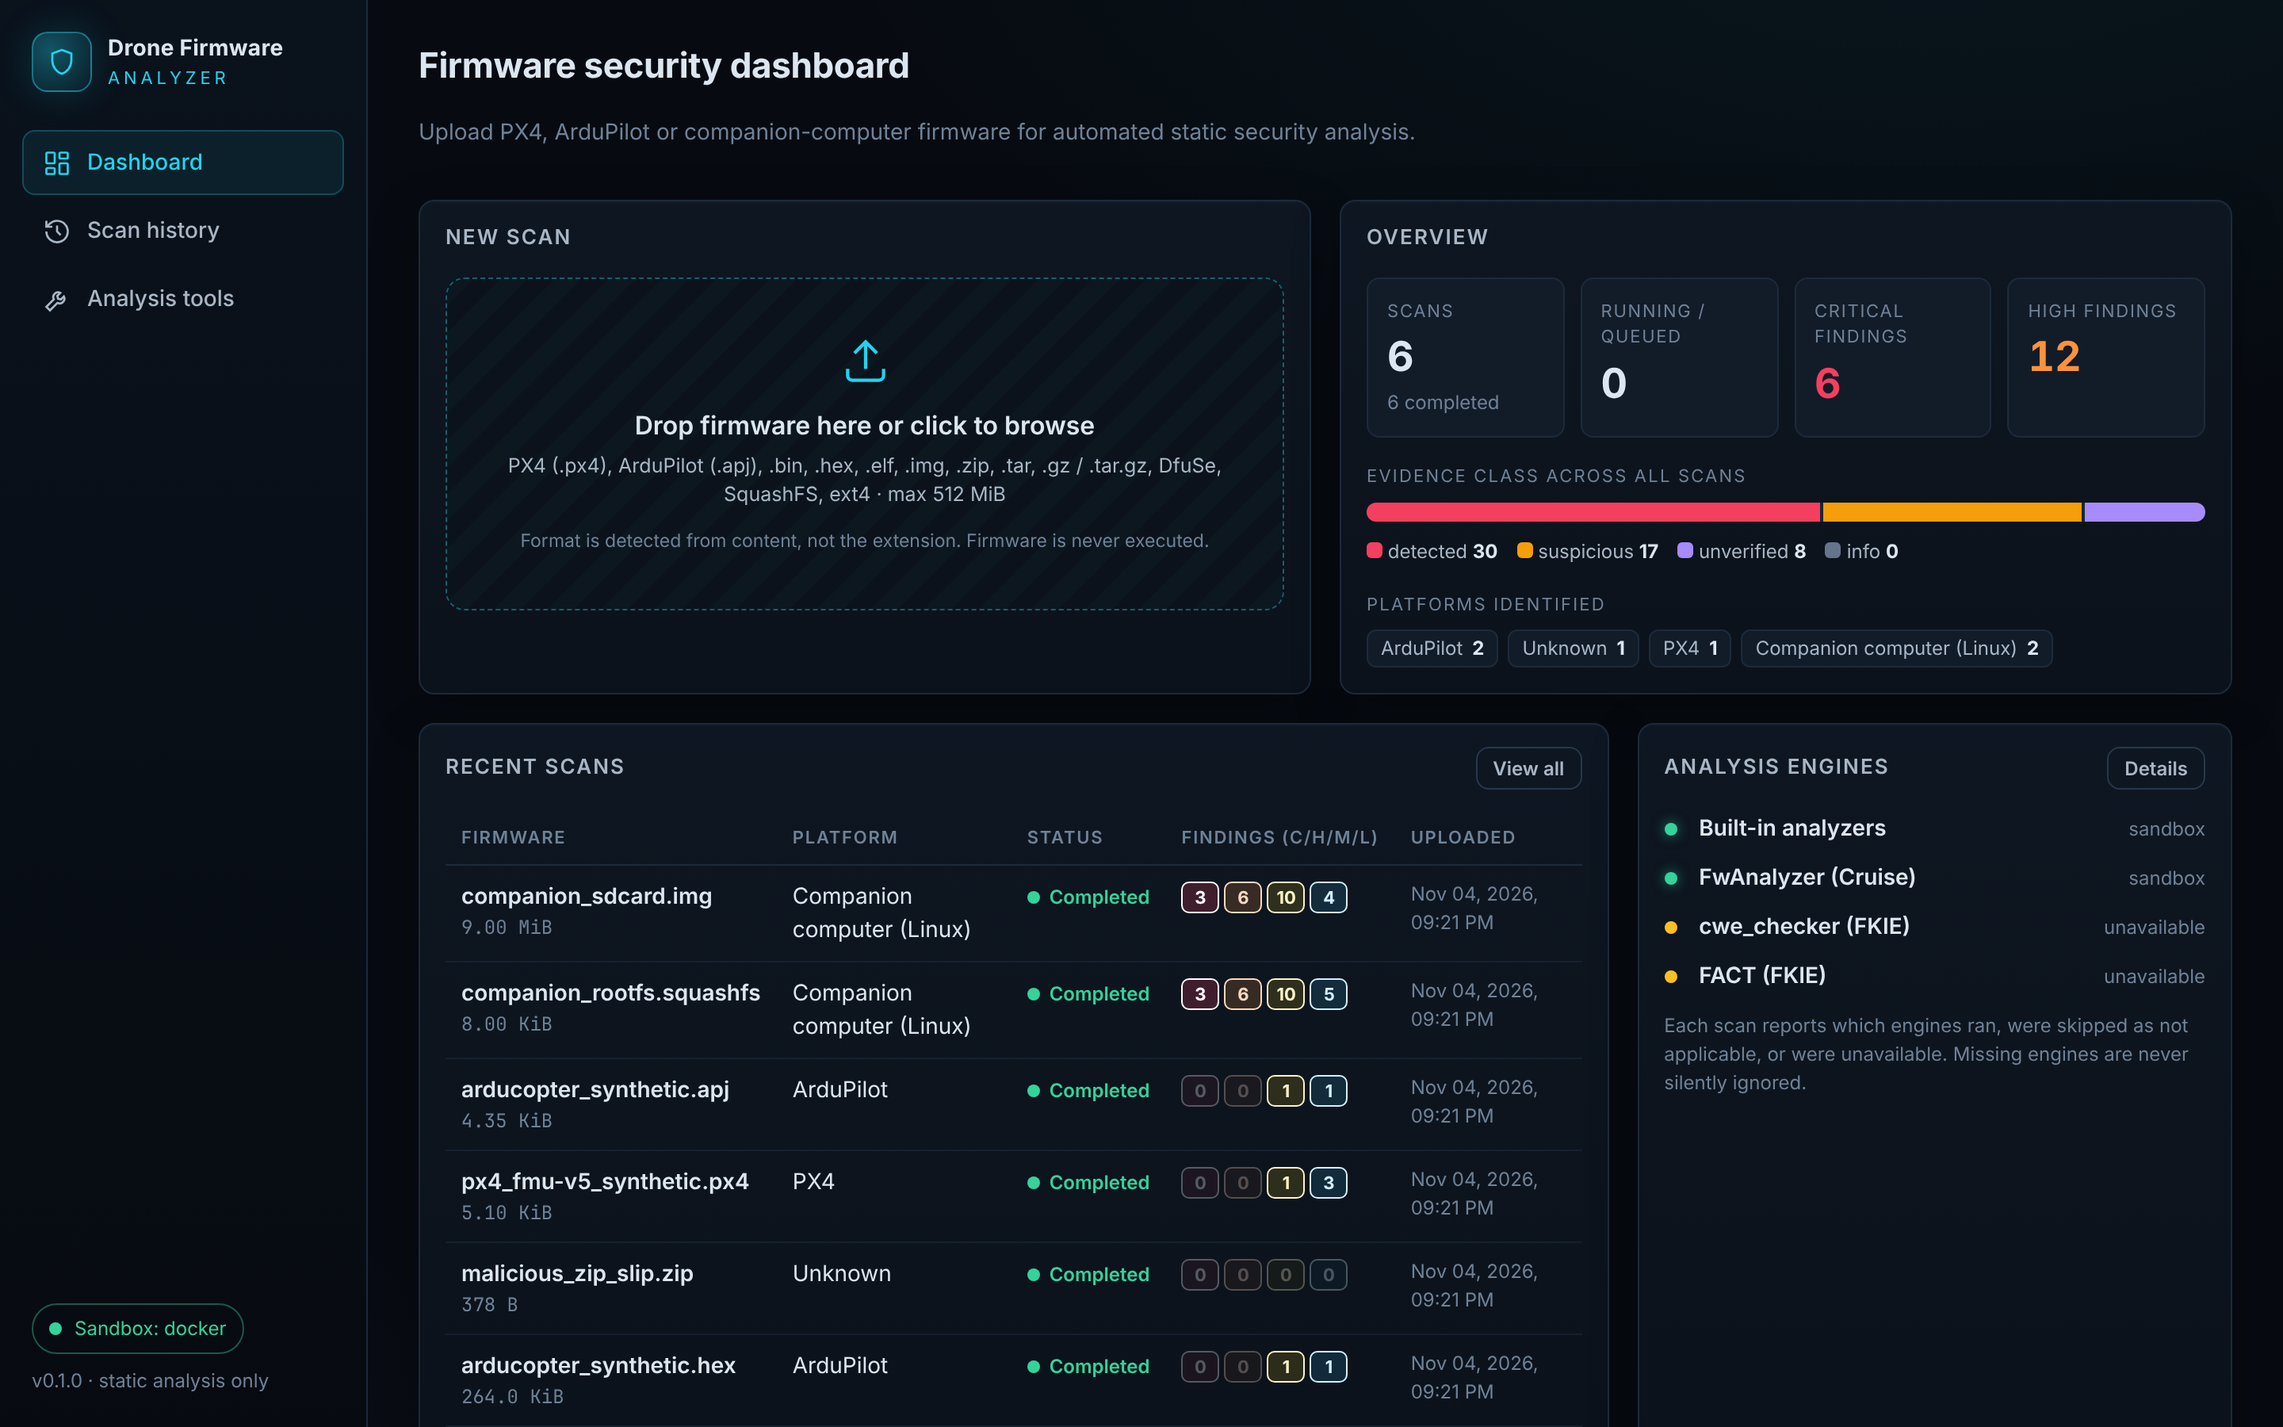
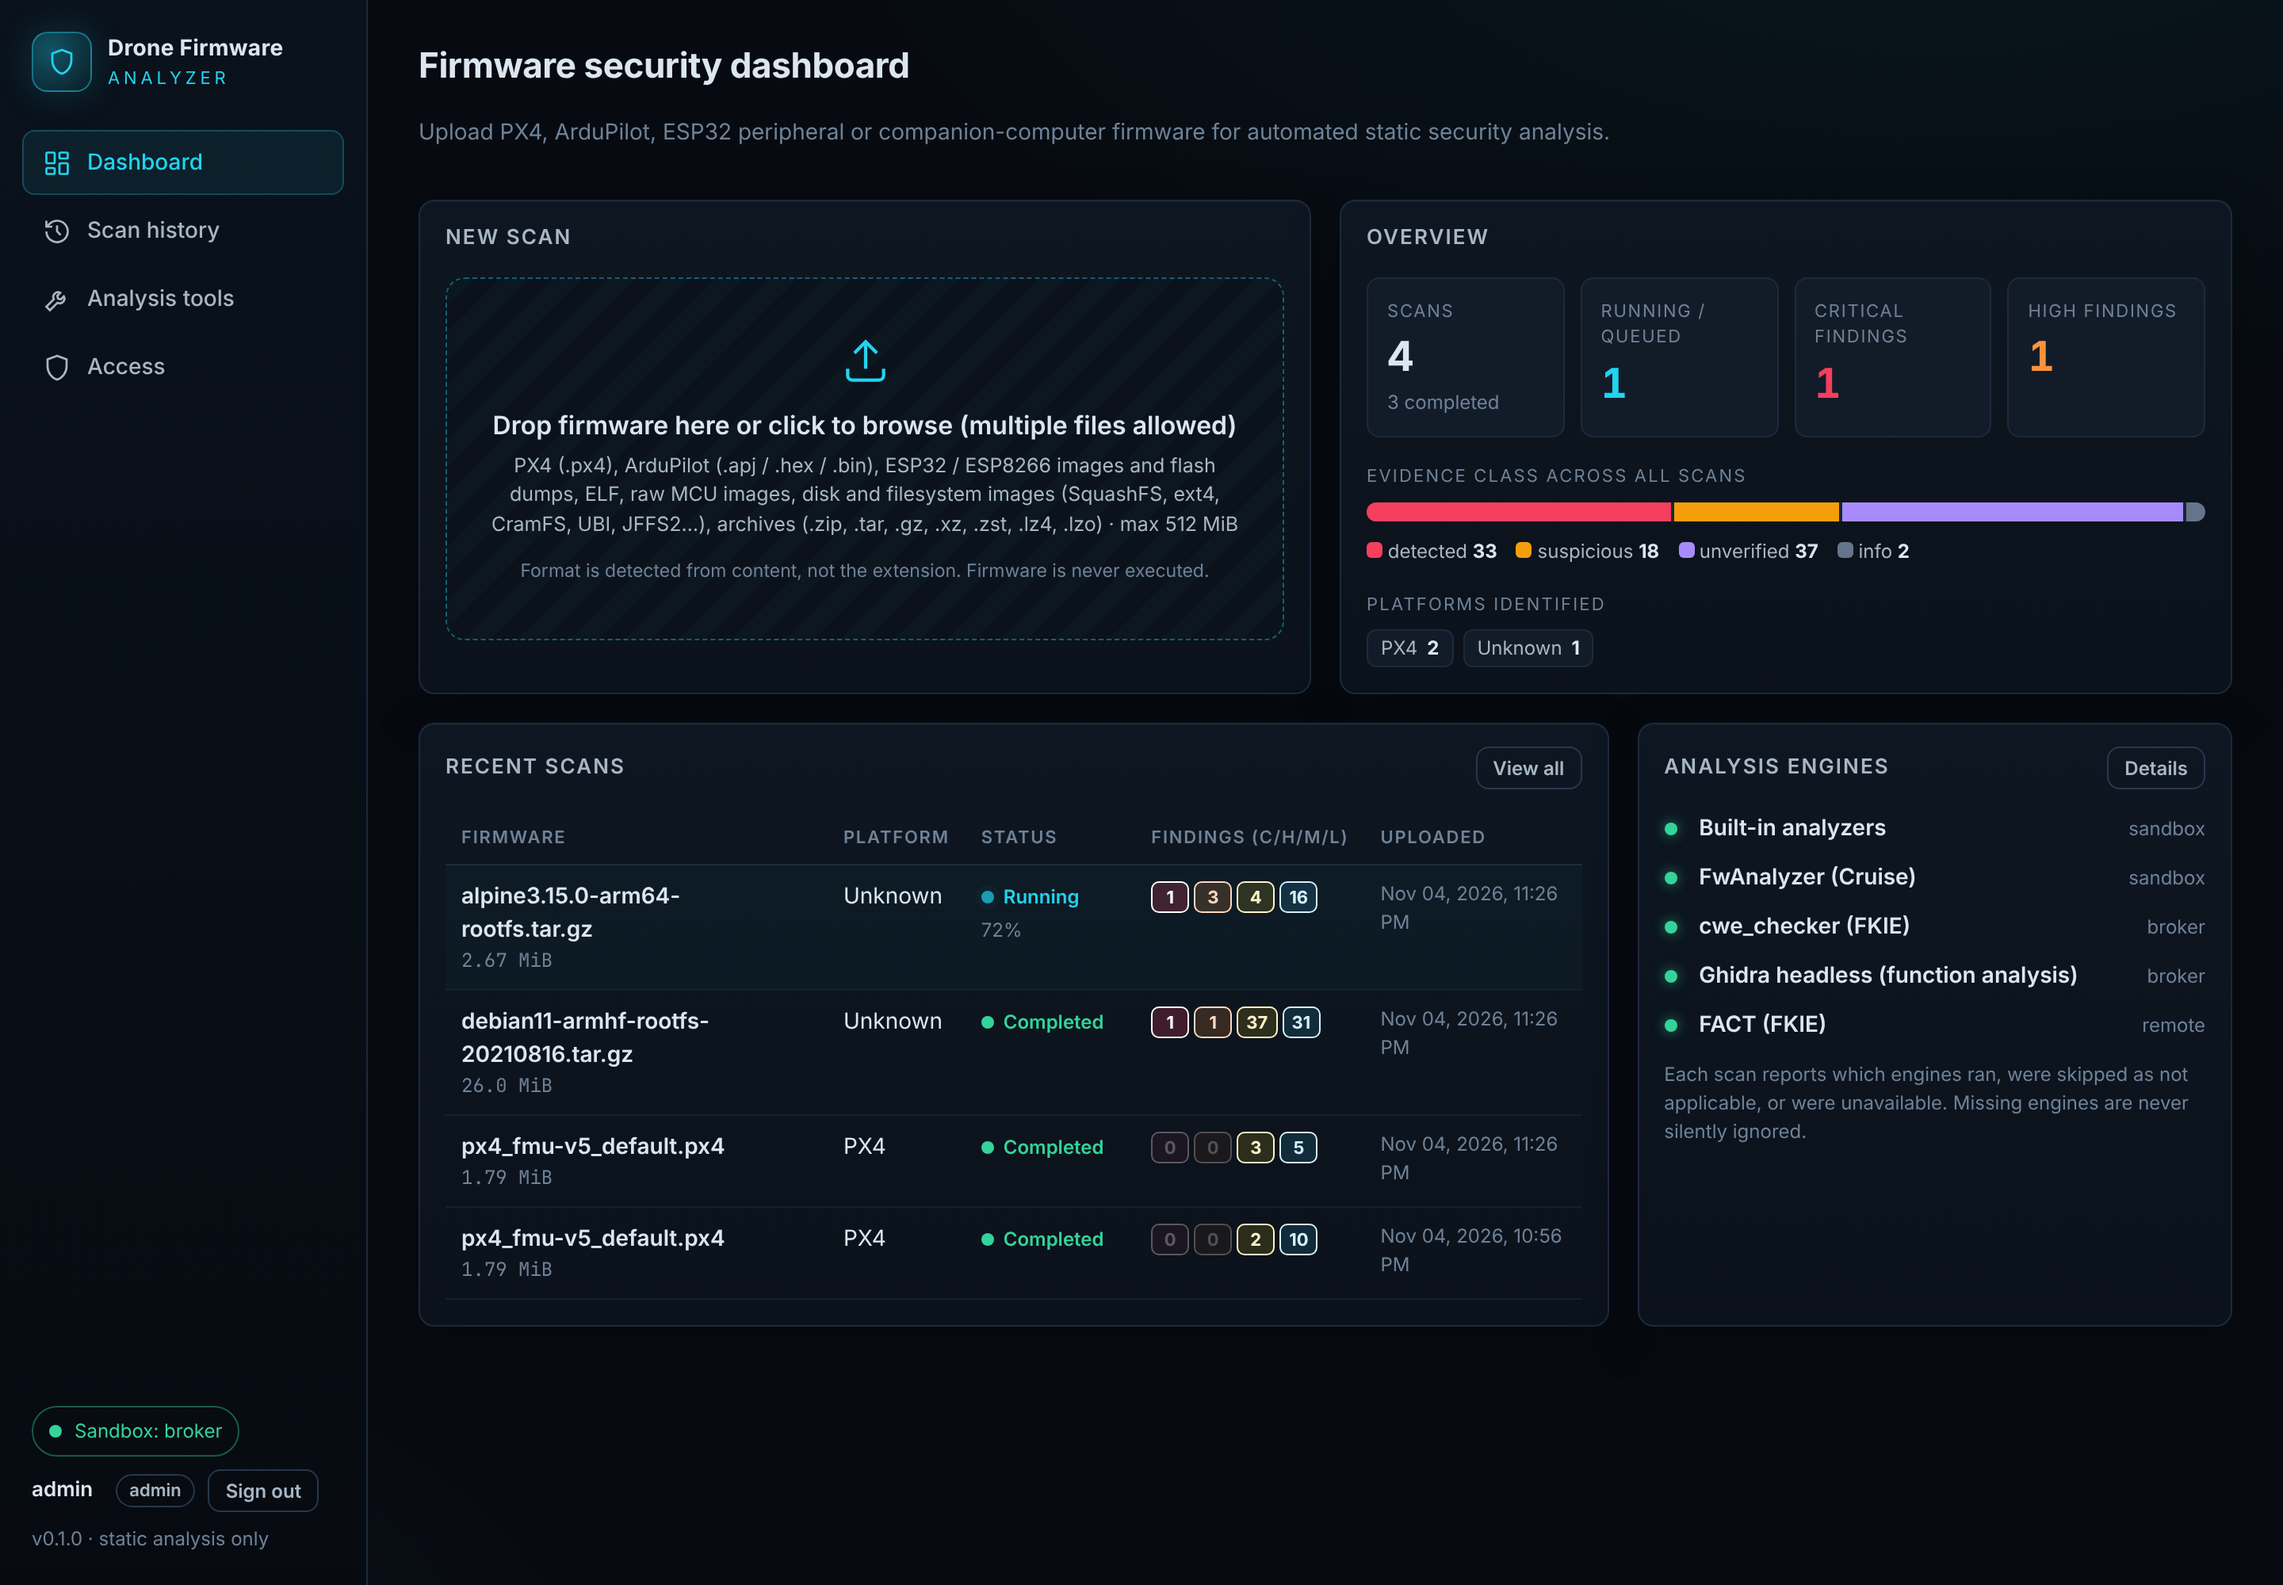
README: screenshots of the current UI on real firmware
Dashboard, the PX4 v1.17.0 milestone scan (all engines completed), findings with their basis,
and the package/advisory view of the Debian 11 root filesystem.

Claude-Session: https://claude.ai/code/session_01N2oacPytLn6373Mkfsoy3C

diff --git a/README.md b/README.md
@@ -34,7 +34,11 @@ Nothing is labelled a "confirmed vulnerability". Static-analysis warnings and ve
 never promoted to `detected`. Tools that are missing, not configured, not applicable or failing are
 shown as such on every scan.
 
-![Scan detail](docs/img/scan.png)
+![Scan detail: official PX4 v1.17.0 build, every engine completed](docs/img/scan.png)
+
+![Findings with their basis (static-analysis warning, advisory, version match, direct evidence)](docs/img/findings.png)
+
+![Installed packages with distribution advisories (Debian 11 root filesystem)](docs/img/packages.png)
 
 ## Quick start (development)
 
